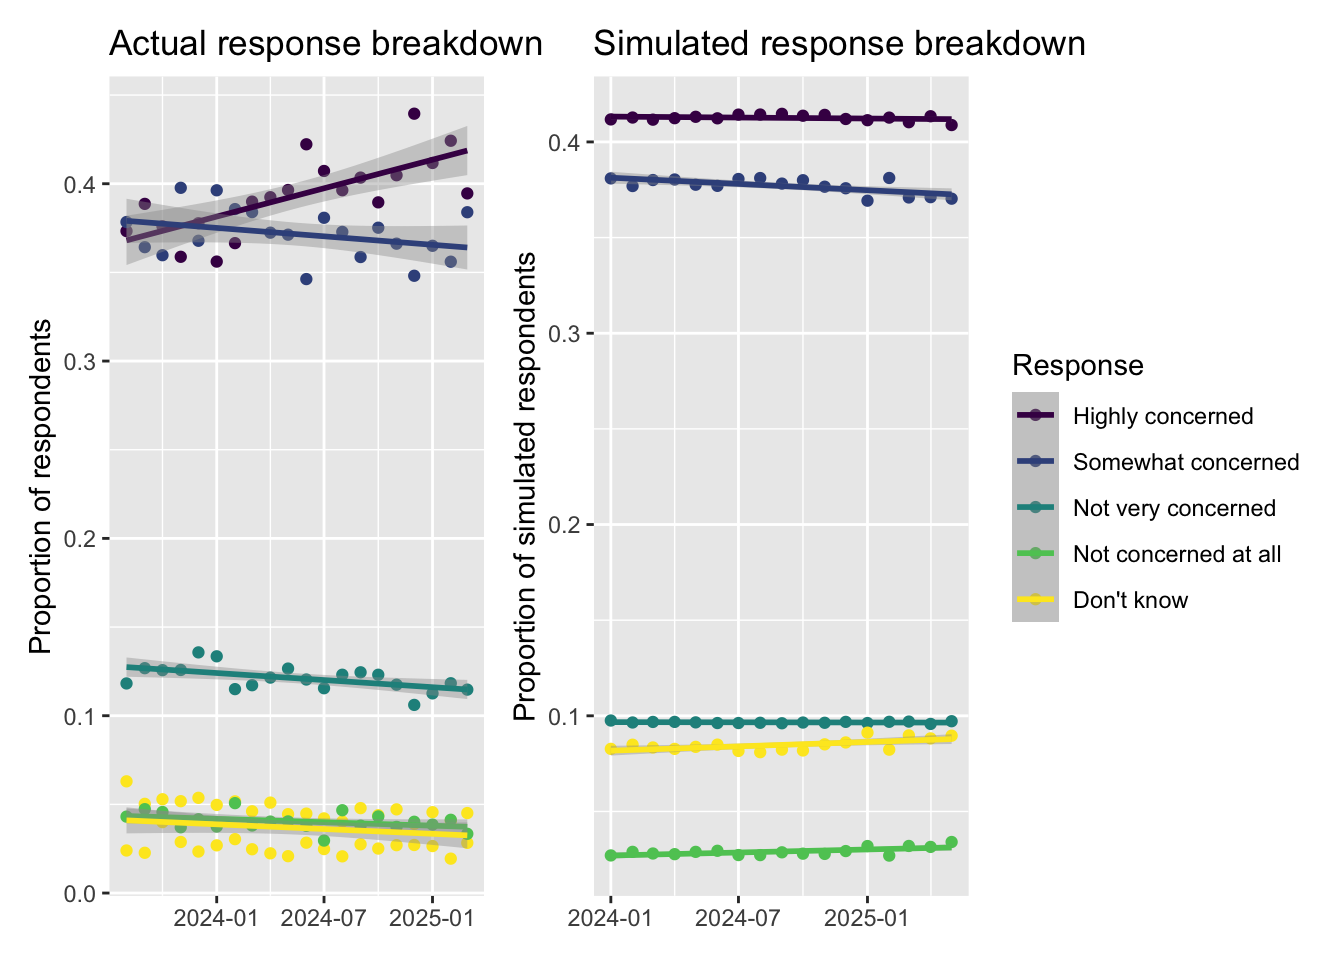
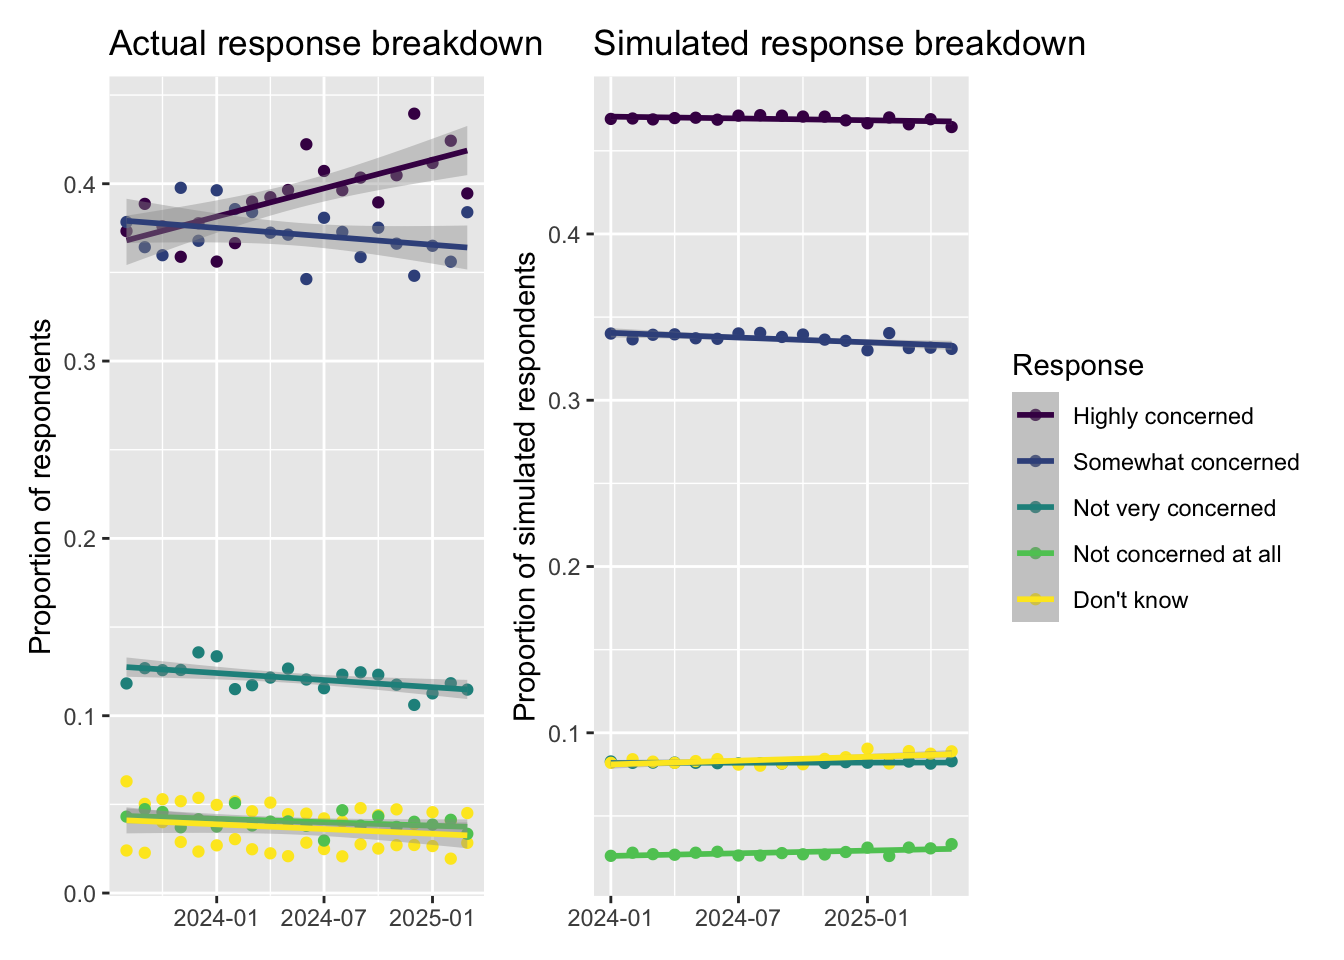
Update text and re-render

diff --git a/docs/posts/food/index.html b/docs/posts/food/index.html
@@ -6,7 +6,7 @@
 
 <meta name="viewport" content="width=device-width, initial-scale=1.0, user-scalable=yes">
 
-<meta name="dcterms.date" content="2025-05-19">
+<meta name="dcterms.date" content="2025-06-23">
 
 <title>Ultra-processed food: an AI polling simulation – Chris Bowdon</title>
 <style>
@@ -255,7 +255,7 @@ window.Quarto = {
       <div>
       <div class="quarto-title-meta-heading">Published</div>
       <div class="quarto-title-meta-contents">
-        <p class="date">May 19, 2025</p>
+        <p class="date">June 23, 2025</p>
       </div>
     </div>
     
@@ -1277,28 +1277,28 @@ Table&nbsp;2: Mean monthly model parameters for each domain.
 <tbody>
 <tr class="odd">
 <td style="text-align: left;">Highly concerned</td>
-<td style="text-align: right;">0.362</td>
-<td style="text-align: right;">-1.017</td>
+<td style="text-align: right;">0.434</td>
+<td style="text-align: right;">-0.834</td>
 </tr>
 <tr class="even">
 <td style="text-align: left;">Somewhat concerned</td>
-<td style="text-align: right;">0.526</td>
-<td style="text-align: right;">-0.642</td>
+<td style="text-align: right;">0.462</td>
+<td style="text-align: right;">-0.771</td>
 </tr>
 <tr class="odd">
 <td style="text-align: left;">Not very concerned</td>
-<td style="text-align: right;">0.071</td>
-<td style="text-align: right;">-2.642</td>
+<td style="text-align: right;">0.059</td>
+<td style="text-align: right;">-2.834</td>
 </tr>
 <tr class="even">
 <td style="text-align: left;">Not concerned at all</td>
 <td style="text-align: right;">0.011</td>
-<td style="text-align: right;">-4.517</td>
+<td style="text-align: right;">-4.521</td>
 </tr>
 <tr class="odd">
 <td style="text-align: left;">Don’t know</td>
-<td style="text-align: right;">0.030</td>
-<td style="text-align: right;">-3.517</td>
+<td style="text-align: right;">0.033</td>
+<td style="text-align: right;">-3.396</td>
 </tr>
 </tbody>
 </table>
@@ -1350,7 +1350,7 @@ Table&nbsp;2: Mean monthly model parameters for each domain.
 <span id="cb17-38"><a href="#cb17-38" aria-hidden="true" tabindex="-1"></a>)</span></code><button title="Copy to Clipboard" class="code-copy-button"><i class="bi"></i></button></pre></div>
 </details>
 <div class="cell-output cell-output-stdout">
-<pre><code>[1] "Converged after 7 iters"</code></pre>
+<pre><code>[1] "Converged after 8 iters"</code></pre>
 </div>
 <details class="code-fold">
 <summary>Code</summary>
@@ -1373,23 +1373,23 @@ Table&nbsp;3: Converged response to UPF question.
 <tbody>
 <tr class="odd">
 <td style="text-align: left;">Highly concerned</td>
-<td style="text-align: right;">0.413</td>
+<td style="text-align: right;">0.472</td>
 </tr>
 <tr class="even">
 <td style="text-align: left;">Somewhat concerned</td>
-<td style="text-align: right;">0.388</td>
+<td style="text-align: right;">0.346</td>
 </tr>
 <tr class="odd">
 <td style="text-align: left;">Not very concerned</td>
-<td style="text-align: right;">0.097</td>
+<td style="text-align: right;">0.082</td>
 </tr>
 <tr class="even">
 <td style="text-align: left;">Not concerned at all</td>
-<td style="text-align: right;">0.024</td>
+<td style="text-align: right;">0.023</td>
 </tr>
 <tr class="odd">
 <td style="text-align: left;">Don’t know</td>
-<td style="text-align: right;">0.078</td>
+<td style="text-align: right;">0.077</td>
 </tr>
 </tbody>
 </table>
@@ -1437,15 +1437,15 @@ Table&nbsp;4: Example of simulated AI polling response to a fictional alarming h
 <tbody>
 <tr class="odd">
 <td style="text-align: left;">Highly concerned</td>
-<td style="text-align: right;">0.899</td>
+<td style="text-align: right;">0.879</td>
 </tr>
 <tr class="even">
 <td style="text-align: left;">Somewhat concerned</td>
-<td style="text-align: right;">0.053</td>
+<td style="text-align: right;">0.071</td>
 </tr>
 <tr class="odd">
 <td style="text-align: left;">Not very concerned</td>
-<td style="text-align: right;">0.012</td>
+<td style="text-align: right;">0.013</td>
 </tr>
 <tr class="even">
 <td style="text-align: left;">Not concerned at all</td>
@@ -1453,7 +1453,7 @@ Table&nbsp;4: Example of simulated AI polling response to a fictional alarming h
 </tr>
 <tr class="odd">
 <td style="text-align: left;">Don’t know</td>
-<td style="text-align: right;">0.029</td>
+<td style="text-align: right;">0.030</td>
 </tr>
 </tbody>
 </table>
@@ -1490,11 +1490,11 @@ Table&nbsp;5: Response distribution of LLM again, this time with the identity of
 <tbody>
 <tr class="odd">
 <td style="text-align: left;">Highly concerned</td>
-<td style="text-align: right;">0.948</td>
+<td style="text-align: right;">0.950</td>
 </tr>
 <tr class="even">
 <td style="text-align: left;">Somewhat concerned</td>
-<td style="text-align: right;">0.024</td>
+<td style="text-align: right;">0.021</td>
 </tr>
 <tr class="odd">
 <td style="text-align: left;">Not very concerned</td>
@@ -1532,7 +1532,7 @@ Table&nbsp;5: Response distribution of LLM again, this time with the identity of
 </details>
 <div class="cell-output cell-output-stdout">
 <pre><code>[1] "Converged after 4 iters"
-[1] "Converged after 3 iters"</code></pre>
+[1] "Converged after 6 iters"</code></pre>
 </div>
 <details class="code-fold">
 <summary>Code</summary>
@@ -1564,28 +1564,28 @@ Table&nbsp;6: Response distribution of LLM for different genders.
 <tbody>
 <tr class="odd">
 <td style="text-align: left;">Highly concerned</td>
-<td style="text-align: right;">0.707</td>
+<td style="text-align: right;">0.701</td>
 <td style="text-align: right;">0.661</td>
 </tr>
 <tr class="even">
 <td style="text-align: left;">Somewhat concerned</td>
-<td style="text-align: right;">0.231</td>
-<td style="text-align: right;">0.276</td>
+<td style="text-align: right;">0.233</td>
+<td style="text-align: right;">0.251</td>
 </tr>
 <tr class="odd">
 <td style="text-align: left;">Not very concerned</td>
-<td style="text-align: right;">0.021</td>
-<td style="text-align: right;">0.022</td>
+<td style="text-align: right;">0.019</td>
+<td style="text-align: right;">0.023</td>
 </tr>
 <tr class="even">
 <td style="text-align: left;">Not concerned at all</td>
 <td style="text-align: right;">0.009</td>
-<td style="text-align: right;">0.008</td>
+<td style="text-align: right;">0.012</td>
 </tr>
 <tr class="odd">
 <td style="text-align: left;">Don’t know</td>
-<td style="text-align: right;">0.032</td>
-<td style="text-align: right;">0.033</td>
+<td style="text-align: right;">0.038</td>
+<td style="text-align: right;">0.052</td>
 </tr>
 </tbody>
 </table>
@@ -1854,18 +1854,28 @@ Figure&nbsp;10: Contribution of simulated readers to response trends.
 <p>It’s interesting that the articles appear to have polarised the simulated readers, with both “Highly concerned” and “Not concerned at all” growing. The rise in “Don’t know” might be confusion from contradictory articles, or might be due to articles that only mentioned ultra-processed foods in passing.</p>
 </section>
 </section>
-<section id="summary" class="level1">
-<h1>Summary</h1>
-<p>We’ve covered a lot of ground here.</p>
-<section id="where-next" class="level2">
-<h2 class="anchored" data-anchor-id="where-next">Where next?</h2>
+<section id="where-next" class="level1">
+<h1>Where next?</h1>
+<p>We could make some big improvements:</p>
 <ul>
-<li>Best results would come from refining our media model. It seems likely that we’re underestimating the media influence.</li>
-<li>So far we’ve only simulated thousands of “Average person” identities. Some basic demographic splits would be expected to improve realism.</li>
+<li>Better results would come from refining our media model. It seems likely that we’re underestimating the media influence.</li>
+<li>So far we’ve only simulated thousands of “Average person” identities. Some basic demographic splits - the “silicon sampling” approach - would be expected to improve realism. That said, UPFs are not a highly polarised issue so the improvement would most likely be modest here.</li>
 </ul>
-
-
+<p>However, this little project could easily turn into a months-long labour. Time to stop, go outside, touch grass.</p>
 </section>
+<section id="wrapping-up" class="level1">
+<h1>Wrapping up</h1>
+<p>We’ve covered a lot of ground here:</p>
+<ol type="1">
+<li>Collated and visualised the FSA’s tracker survey for concern about UPFs.</li>
+<li>Built a probabilistic media readership model that reflects real UK news consumption.</li>
+<li>Built an LLM-based survey respondent simulator.</li>
+<li>Combined the Monte Carlo media model and the LLM respondents to simulate how British people exposed to news media over the last 18 months would respond to the UPF question, i.e.&nbsp;simulated the FSA’s tracker survey with AI.</li>
+</ol>
+<p>We were following the ideas and approach outlined by Argyle et al, but with a much more niche survey question (British public opinion on UPFs vs US voting preference) and with a media model to capture the information that would truly inform opinion.</p>
+<p>The simulated survey showed some promising correlation with the actual survey. It really is exciting considering the relative effort compared to polling a thousand of people every month. I can’t wait to see how this develops.</p>
+
+
 </section>
 
 </main> <!-- /main -->

diff --git a/docs/index.html b/docs/index.html
@@ -263,7 +263,7 @@ window.Quarto = {
 
 <div class="quarto-listing quarto-listing-container-default" id="listing-listing">
 <div class="list quarto-listing-default">
-<div class="quarto-post image-right" data-index="0" data-categories="Zm9vZCx1ayxyLGFpLGxsbSxzdXJ2ZXlz" data-listing-date-sort="1747609200000" data-listing-file-modified-sort="1750667824240" data-listing-date-modified-sort="NaN" data-listing-reading-time-sort="35" data-listing-word-count-sort="6937">
+<div class="quarto-post image-right" data-index="0" data-categories="Zm9vZCx1ayxyLGFpLGxsbSxzdXJ2ZXlz" data-listing-date-sort="1750633200000" data-listing-file-modified-sort="1750670721569" data-listing-date-modified-sort="NaN" data-listing-reading-time-sort="36" data-listing-word-count-sort="7128">
 <div class="thumbnail">
 <p><a href="./posts/food/index.html" class="no-external"></a></p><a href="./posts/food/index.html" class="no-external">
 <p class="card-img-top"><img src="posts/food/index_files/figure-html/fig-responses-1.png"  class="thumbnail-image card-img"/></p>
@@ -303,7 +303,7 @@ surveys
 <div class="metadata">
 <a href="./posts/food/index.html" class="no-external">
 <div class="listing-date">
-May 19, 2025
+Jun 23, 2025
 </div>
 </a>
 </div>

diff --git a/docs/proxy.html b/docs/proxy.html
@@ -247,7 +247,7 @@ gtag('config', 'G-QC160P51EN', { 'anonymize_ip': true});
 <section id="python-2" class="level2">
 <h2 class="anchored" data-anchor-id="python-2">Python 2</h2>
 <p>This works in Python 2.6 and 2.7. In Python 3 the principles are the same but <code>urllib</code> has been reorganized.</p>
-<div id="1b6549c4" class="cell">
+<div id="6128e54c" class="cell">
 <div class="sourceCode cell-code" id="cb2"><pre class="sourceCode python code-with-copy"><code class="sourceCode python"><span id="cb2-1"><a href="#cb2-1" aria-hidden="true" tabindex="-1"></a>  <span class="im">import</span> logging</span>
 <span id="cb2-2"><a href="#cb2-2" aria-hidden="true" tabindex="-1"></a>  <span class="im">import</span> ssl</span>
 <span id="cb2-3"><a href="#cb2-3" aria-hidden="true" tabindex="-1"></a>  <span class="im">import</span> urllib2</span>
